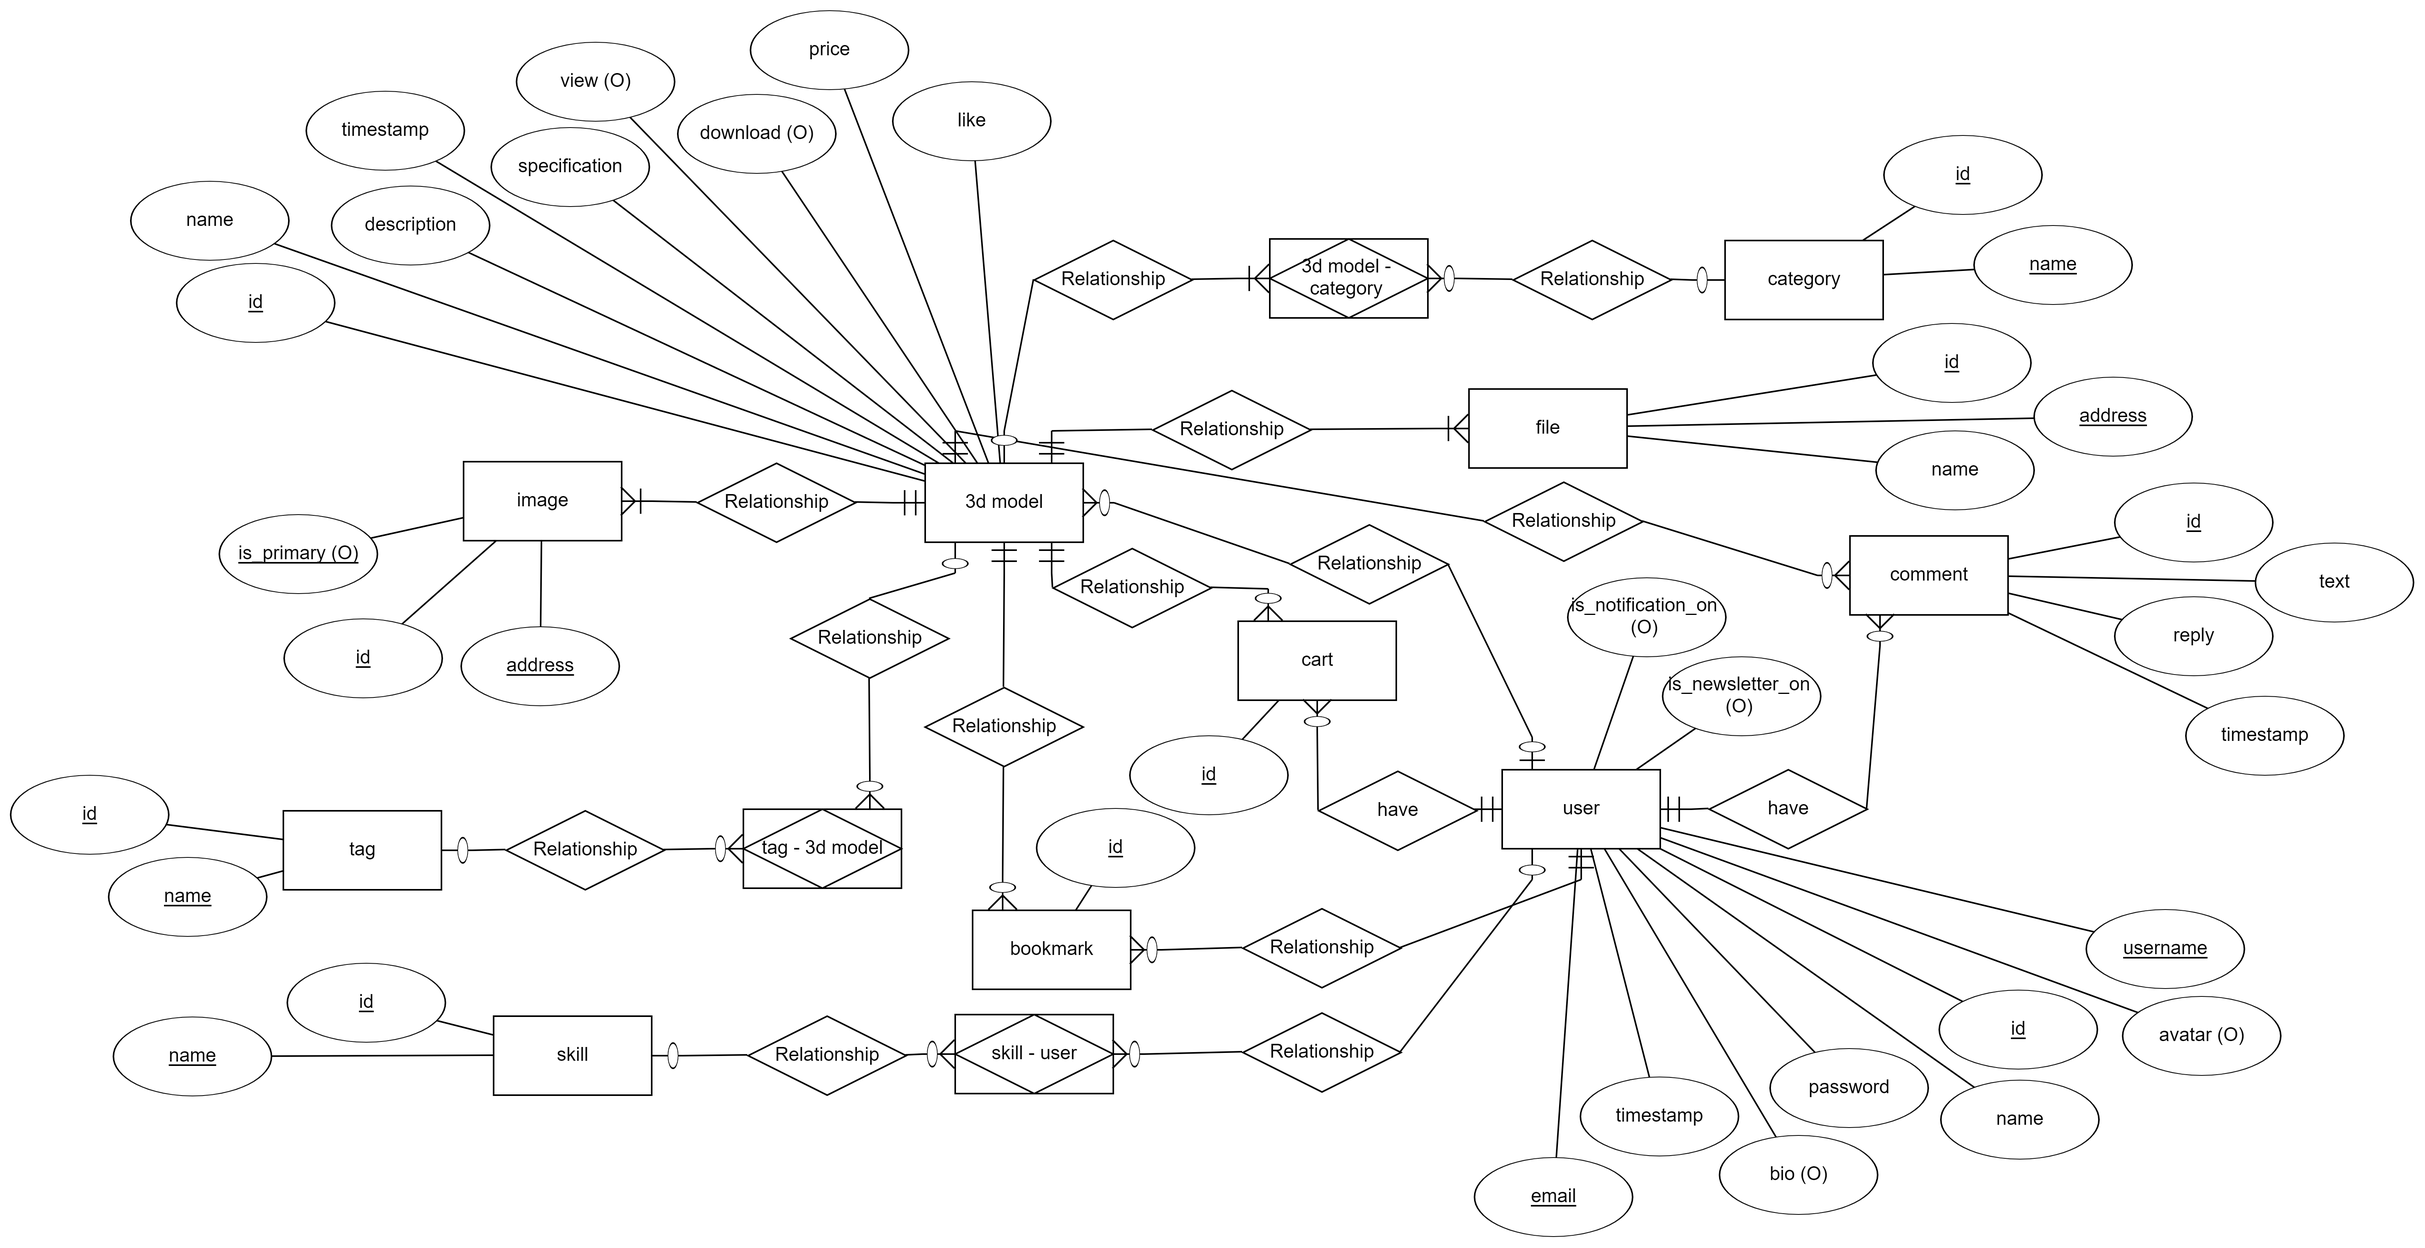
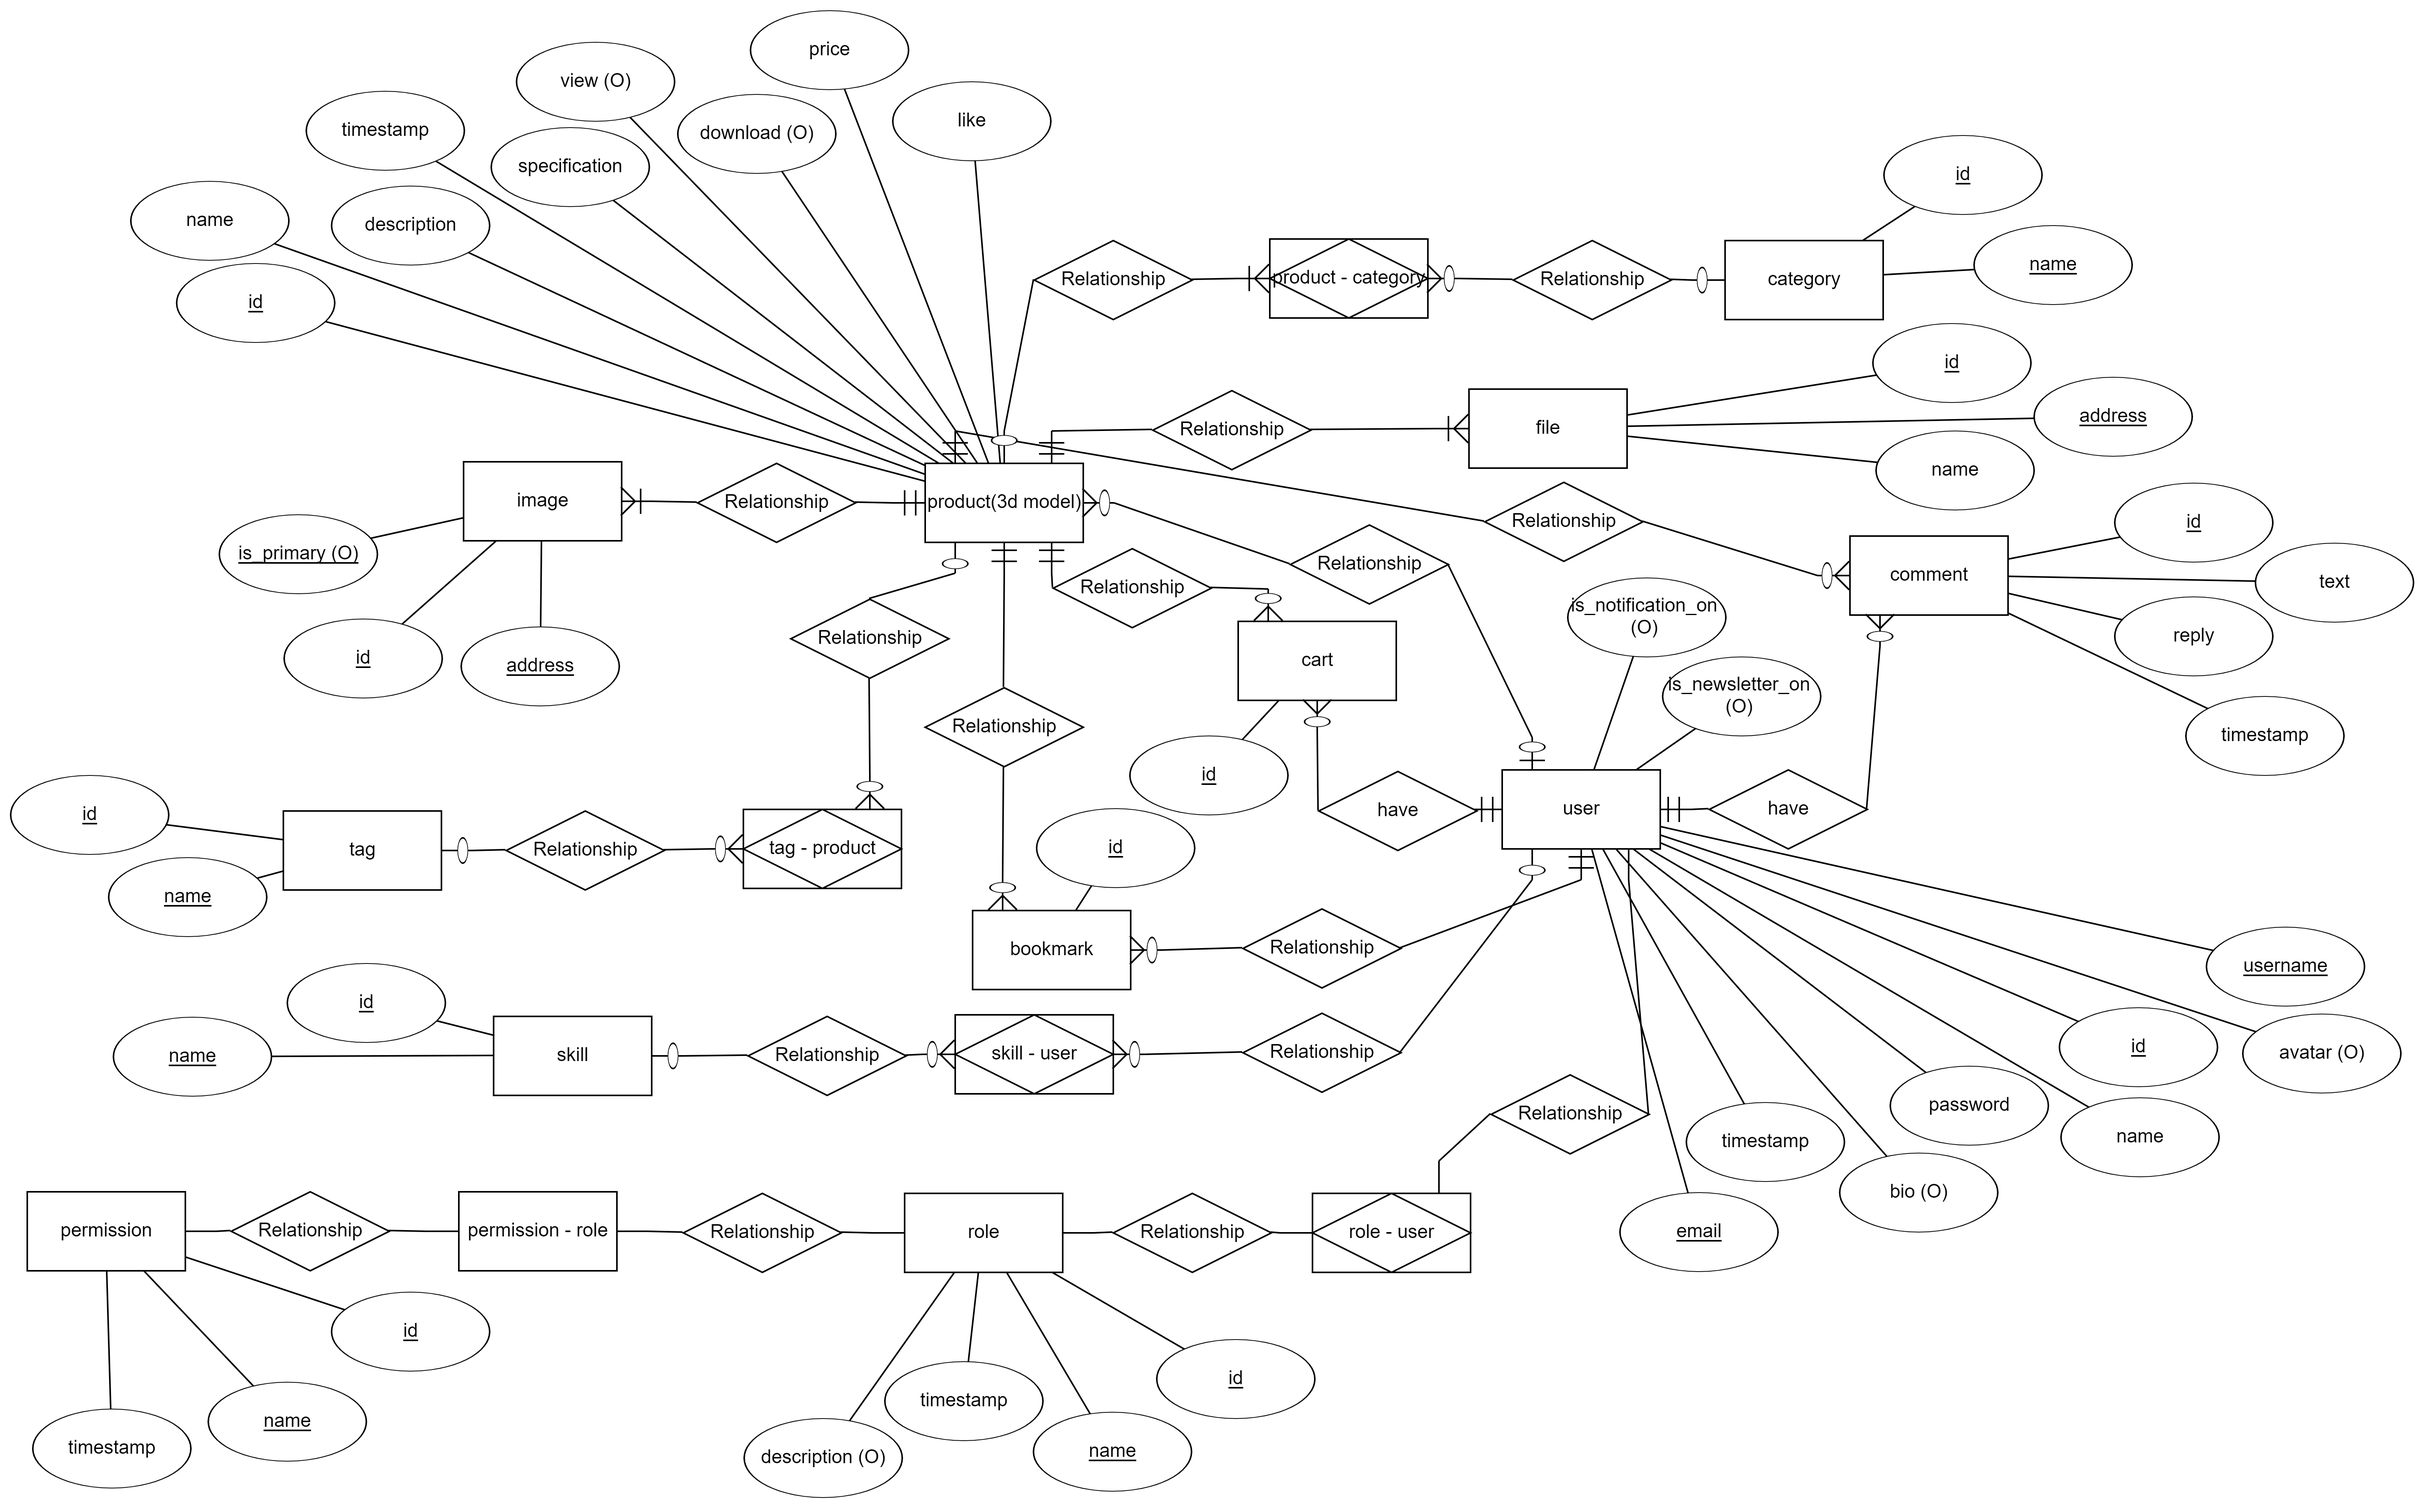
some change in erd and role migration

diff --git a/database/migrations/2021_09_27_014757_create_roles_table.php b/database/migrations/2021_09_27_014757_create_roles_table.php
@@ -10,9 +10,8 @@ class CreateRolesTable extends Migration
     {
         Schema::create('roles', function (Blueprint $table) {
             $table->id();
-            $table->string('name');
+            $table->string('name')->unique();
             $table->text('description')->nullable();
-            $table->tinyInteger('priority')->unique();
             $table->timestamps();
         });
     }
